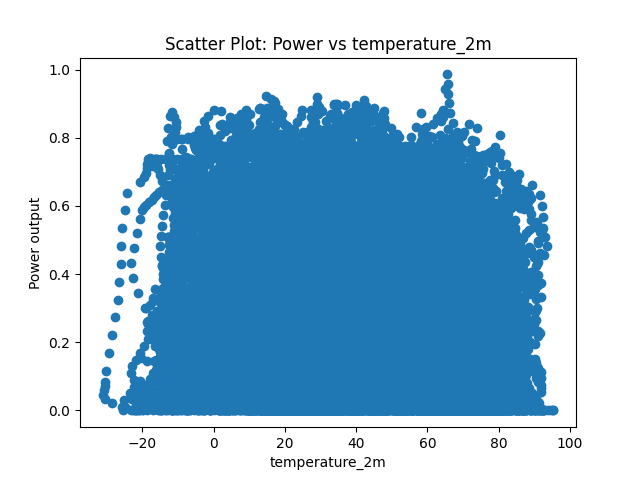
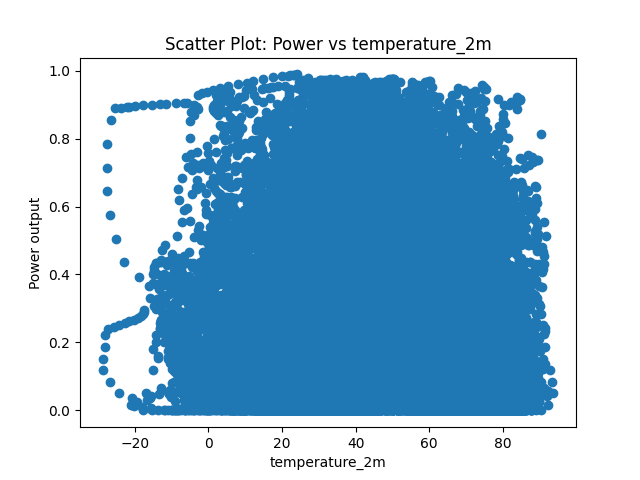
Added graphs to all forecasting models

diff --git a/src/persistence_model.py b/src/persistence_model.py
@@ -29,34 +29,26 @@ R2_pers_model = r2_score(y_pred, y_test)
 print(MAE_pers_model, MSE_pers_model, RMSE_pers_model, R2_pers_model)
 
 
-### OBS FIGURE OUT HOW TO MAKE THIS GRAPH
-"""
-## We make a graph to vizualize the difference between the predicted and actual power output
+plt.figure()
+plt.scatter(y_pred, y_test)
+plt.xlabel("Power Predicted")
+plt.ylabel("Power Actual")
+plt.title(f"Scatter Plot: Power predicted vs actual")
+plt.show()
 
-# Ensure 'Time' is a datetime type
-y_test['Time'] = pd.to_datetime(y_test['Time'])
 
-# Filter data for the specified time range
-mask = (y_test['Time'] >= pd.to_datetime("2021-12-29 00:00")) & (y_test['Time'] <= pd.to_datetime("2021-12-31 00:00"))
-y_test = y_test.loc[mask]
+fig, ax = plt.subplots()
+fig.suptitle("Predictions vs. Actual Power")
+ax.plot(y_test, color = 'black', linestyle = '-', label="Actual Power")
+ax.plot(y_pred, color = 'orange', linestyle = ':', label="Predicted Power")
+plt.savefig("outputs/persistence_model/power_forecast_full.png") 
 
-# Create the plot
-fig, ax1 = plt.subplots()
 
-# Plot normalized power
-line1, = ax1.plot(y_test['Time'], y_test['Power'], 
-                color='black', linestyle='-', label='Actual Power Output and Lagged (AR1) Power Output', linewidth=0.8)
-line2, = ax1.plot(y_test['Time'], y_test['Power_lag1'], 
-                color='green', linestyle='--', label='Actual Power Output and Lagged (AR1) Power Output', linewidth=0.8)
-
-# Labels and title
-ax1.set_xlabel('Time', fontsize=8)
-ax1.set_ylabel('Power Output (Normalized 0-1)', fontsize=8)
-plt.title("Actual and Predicted Power Output using Persistence Forecasting", fontsize=11)
-
-# We set the size of the tick labelse
-ax1.tick_params(axis='both', which='major', labelsize=7)
-
-# Save figure
-plt.savefig("outputs/persistence_model/power_forecast.png", bbox_inches='tight', dpi=300)
-"""
+# We make a subset of the predicted and actual power data
+y_test_subset = y_test[2000:4000]
+y_pred_subset = y_pred[2000:4000]
+fig, ax = plt.subplots()
+fig.suptitle("Predictions vs. Actual Power")
+ax.plot(y_test_subset, color = 'black', linestyle = '-', label="Actual Power")
+ax.plot(y_pred_subset, color = 'orange', linestyle = ':', label="Predicted Power")
+plt.savefig("outputs/persistence_model/power_forecast_subset.png")

diff --git a/src/data_vizualization.py b/src/data_vizualization.py
@@ -11,7 +11,7 @@ from data_cleaning import load_data
 
 ## Importing data 
 if __name__ == "__main__": 
-    data = load_data('Location2.csv')
+    data = load_data('Location4.csv')
 
 # We create a function that creates a time series plot of data
 # Function to create a time series plot for a specific period
@@ -87,7 +87,6 @@ def plots(data):
         plt.close()
 
     # We create a wind rose of wind directions and wind speeds for 10 and 100 meter above surface
-
     meters_as = [10, 100]
 
     for meters in meters_as:
@@ -98,17 +97,21 @@ def plots(data):
         ax.set_legend(title="Wind speed (m/s)")
         plt.savefig(f"outputs/scatterplots/windrose_{meters}m.png")
         plt.close()
-
-        # Create wind rose plot - power output
-        fig = plt.figure(figsize=(6, 6))
-        ax = WindroseAxes.from_ax(fig=fig)
-        ax.bar(data[f'winddirection_{meters}m'], data[f'Power'], normed=True, opening=1, edgecolor='white')
-        ax.set_legend(title="Wind power (0-1)")
-        plt.savefig(f"outputs/scatterplots/windrose_power_{meters}m.png")
-        plt.close()
   
 
+mean_power_pr_hours = data.groupby('hour')['Power'].mean()
+
+print(mean_power_pr_hours)
+stop
+
+plt.figure()
+plt.scatter(data['hour'], mean_power_pr_hours)
+plt.xlabel("Hour of day")
+plt.ylabel("Power output")
+plt.title(f"Scatter Plot: Power for different hours of the day")
+plt.show()
+
 # We run the data load and plot function for a selected location
-data = load_data('Location2.csv')
+data = load_data('Location4.csv')
 timeseries_plot(data, start_time="2017-08-01 00:00", end_time="2017-09-01 00:00")
 plots(data)

diff --git a/src/random_forest_model.py b/src/random_forest_model.py
@@ -27,6 +27,7 @@ model.fit(X_train,y_train)
 
 # We make a prediction of y
 y_pred = model.predict(X_test)
+y_test = y_test.values
 
 ## We calculate the error measures to test the prediction model
 MAE_RFR_model = mean_absolute_error(y_pred, y_test)
@@ -43,13 +44,19 @@ plt.ylabel("Power Actual")
 plt.title(f"Scatter Plot: Power predicted vs actual")
 plt.show()
 
-"""
-##We scale the data to minimize the impact of big outliers
-# Create scaler
-scaler = StandardScaler()
 
-# Fit on data and transform
-scaler.fit(X_train)
-X_train_scaled = scaler.transform(X_train)
-X_test_scaled = scaler.transform(X_test)
-"""
+fig, ax = plt.subplots()
+fig.suptitle("Predictions vs. Actual Power")
+ax.plot(y_test, color = 'black', linestyle = '-', label="Actual Power")
+ax.plot(y_pred, color = 'orange', linestyle = ':', label="Predicted Power")
+plt.show()
+
+
+# We make a subset of the predicted and actual power data
+y_test_subset = y_test[2000:4000]
+y_pred_subset = y_pred[2000:4000]
+fig, ax = plt.subplots()
+fig.suptitle("Predictions vs. Actual Power")
+ax.plot(y_test_subset, color = 'black', linestyle = '-', label="Actual Power")
+ax.plot(y_pred_subset, color = 'orange', linestyle = ':', label="Predicted Power")
+plt.show()

diff --git a/src/neural_network_model.py b/src/neural_network_model.py
@@ -55,6 +55,14 @@ plt.show()
 
 fig, ax = plt.subplots()
 fig.suptitle("Predictions vs. Actual Power")
-ax.plot(y_pred, label="Predicted Power")
-ax.plot(y_test, label="Actual Power")
+ax.plot(y_test, color = 'black', linestyle = '-', label="Actual Power")
+ax.plot(y_pred, color = 'orange', linestyle = ':', label="Predicted Power")
+plt.show()
+
+y_test_subset = y_test[2000:4000]
+y_pred_subset = y_pred[2000:4000]
+fig, ax = plt.subplots()
+fig.suptitle("Predictions vs. Actual Power")
+ax.plot(y_test_subset, color = 'black', linestyle = '-', label="Actual Power")
+ax.plot(y_pred_subset, color = 'orange', linestyle = ':', label="Predicted Power")
 plt.show()
